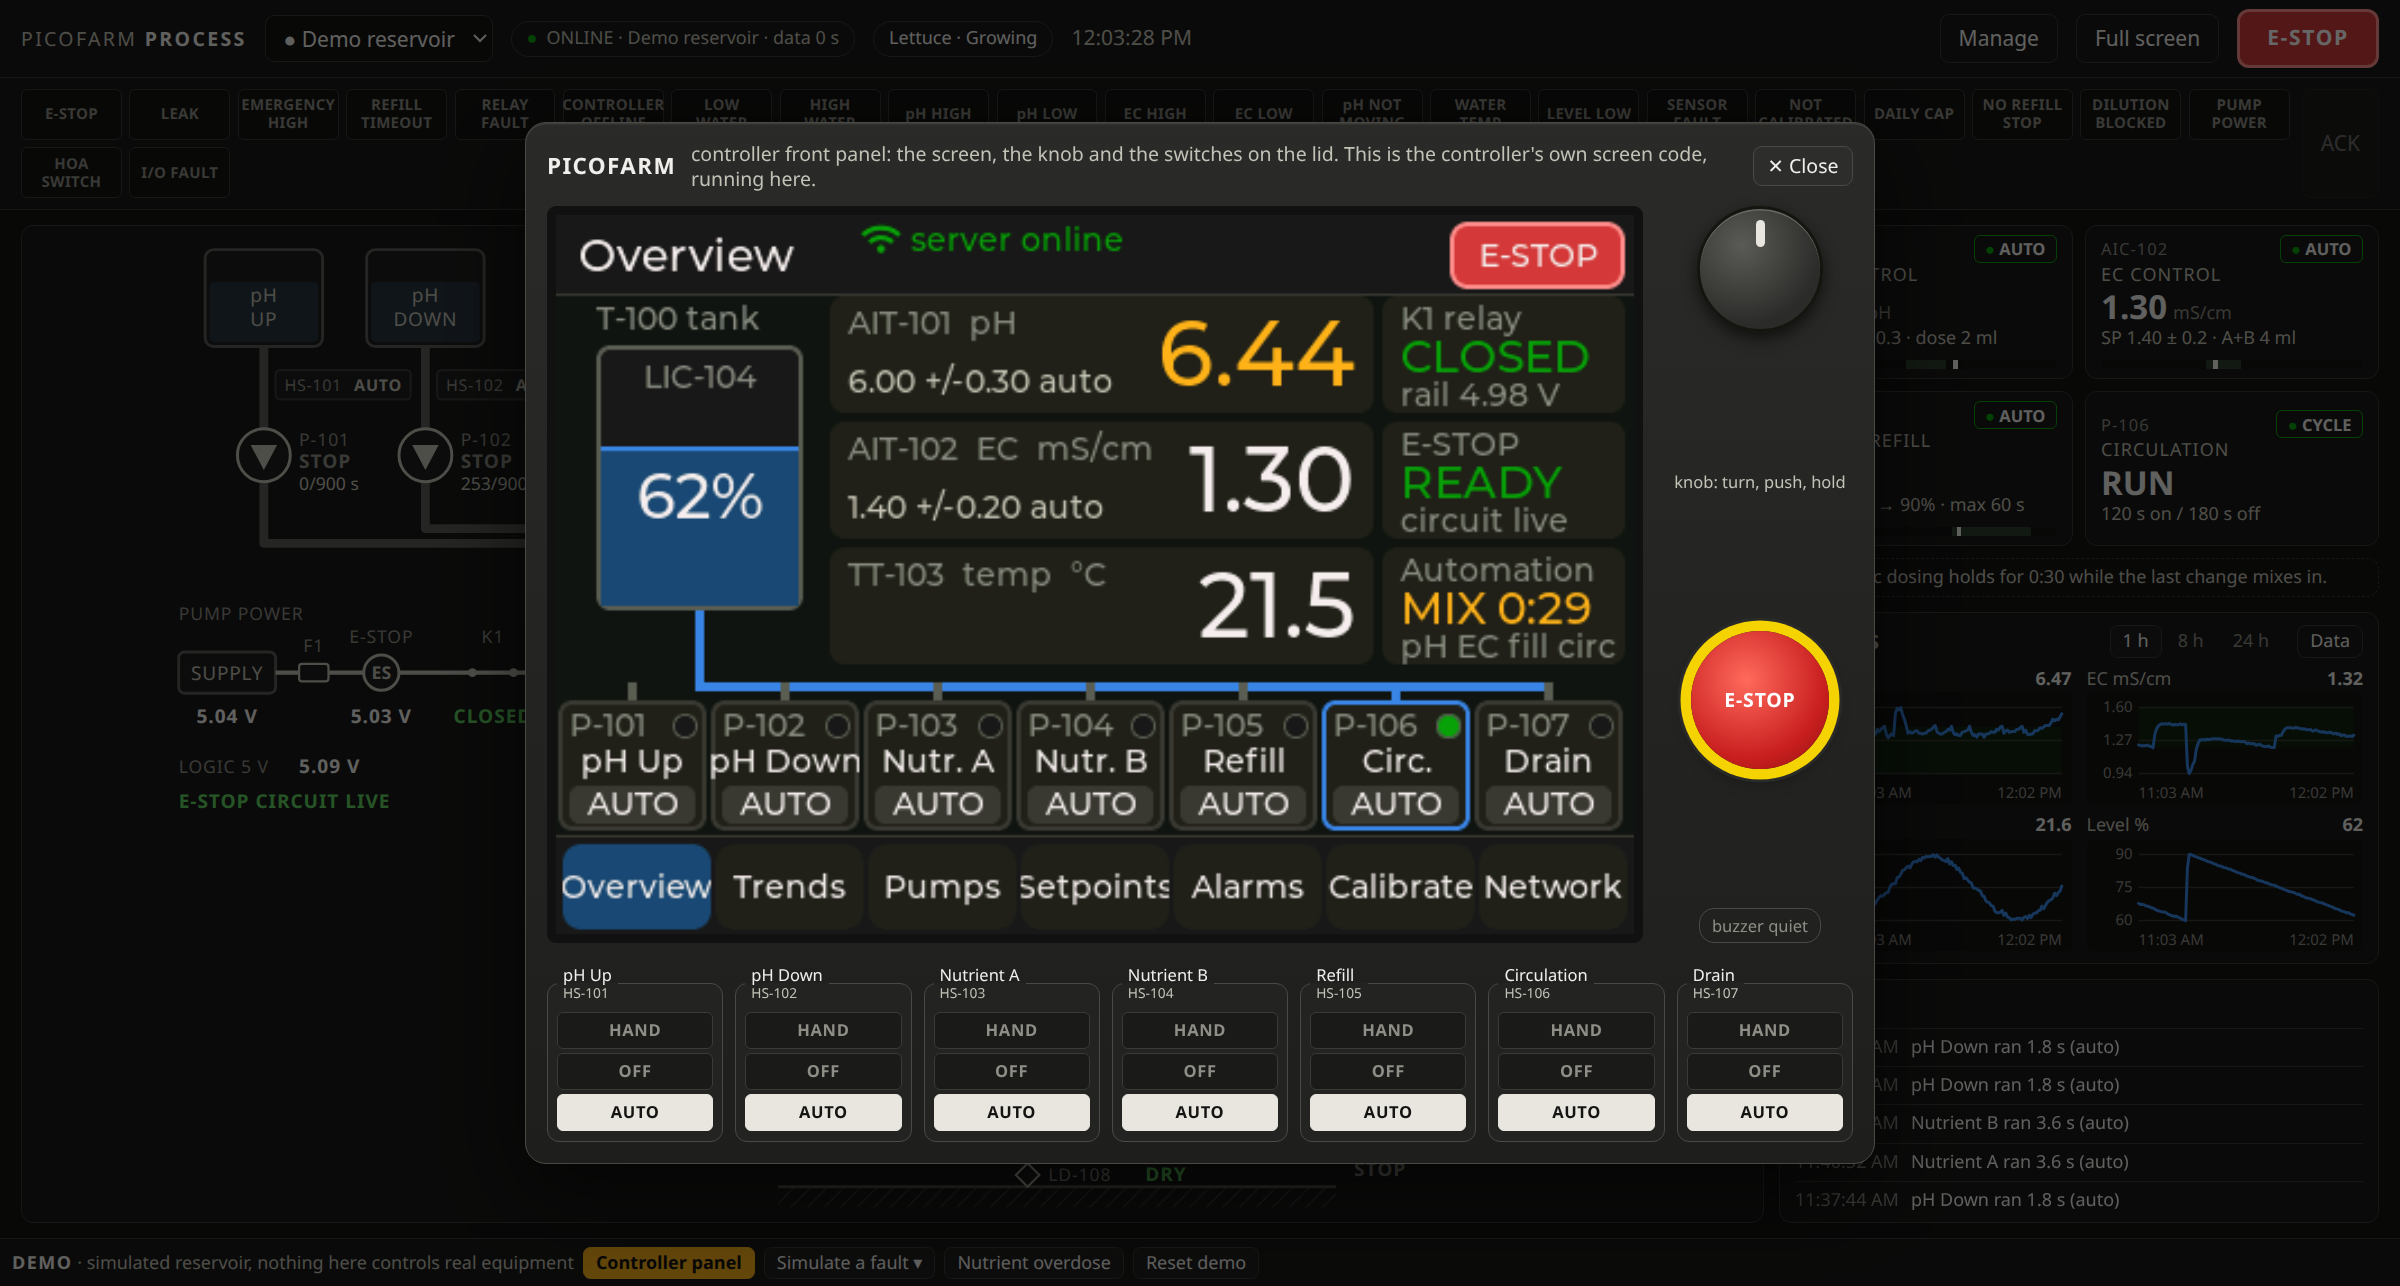
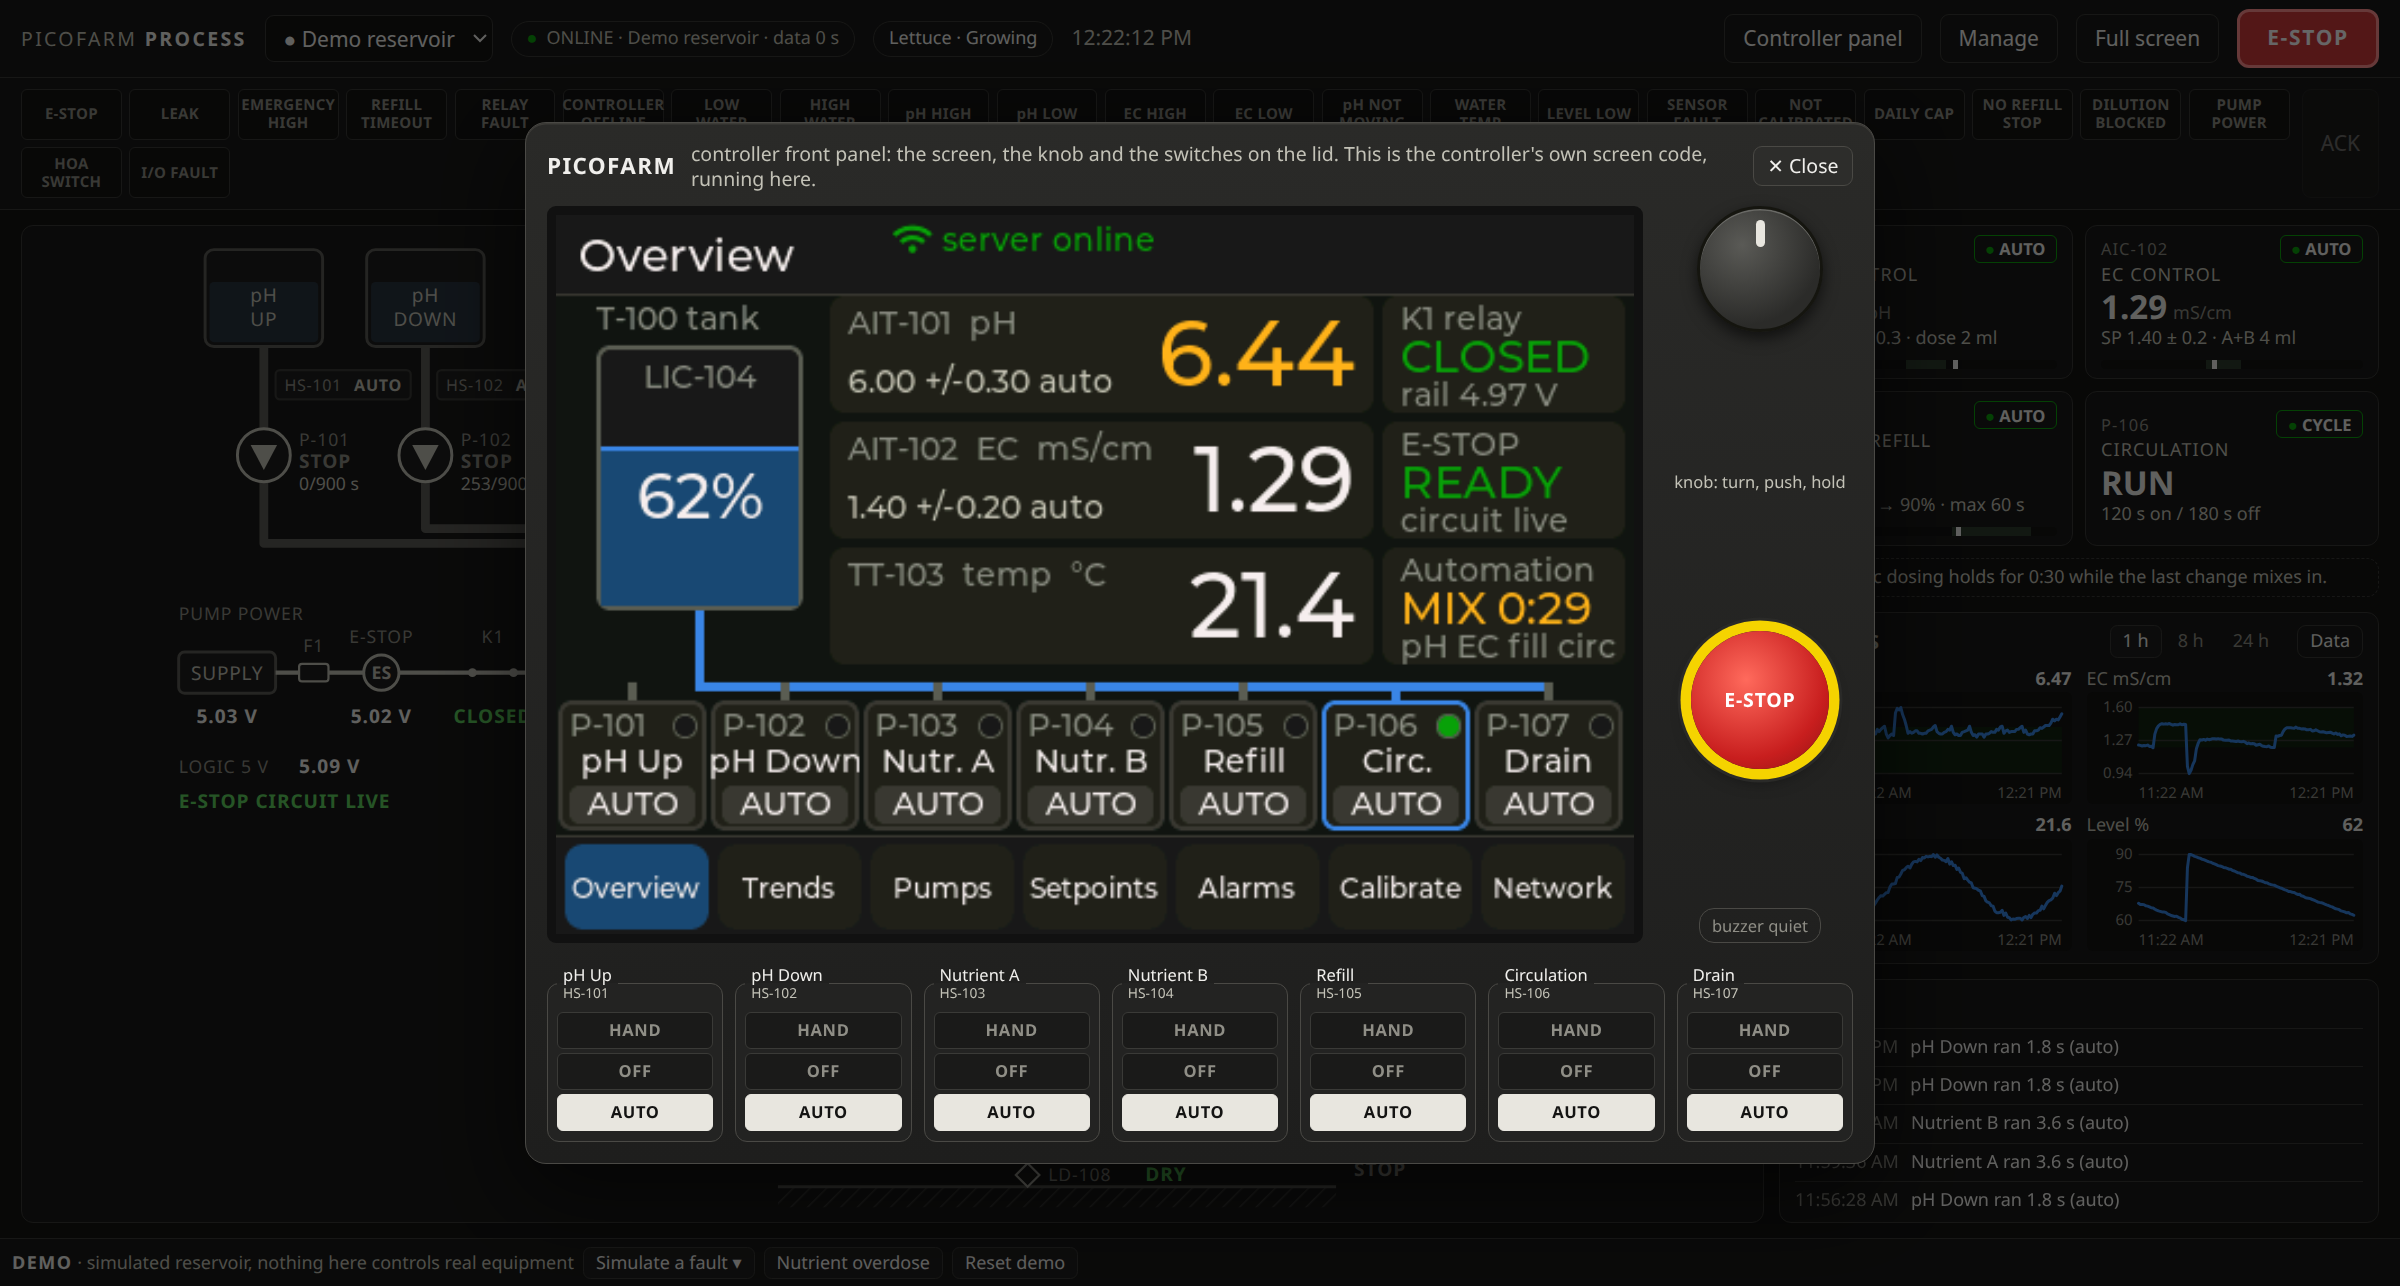
PicoFarm page: the panel has no software E-STOP; even nav bar in the screen pictures; demo button in the header
The screen's E-STOP lines and the safety-chain row now describe the lid's physical E-stop plus the
dashboard's and app's remote one; Stage 8 check 6 uses the dashboard's E-STOP. panel-screens.png and
demo-panel.png retaken from the new front-panel build.

diff --git a/src/content/projects/picofarm/index.md b/src/content/projects/picofarm/index.md
@@ -24,7 +24,7 @@ This page describes revision B of the controller. The firmware, the server with 
 
 **[Open the live demo](https://picofarm.jlwhite.ca).** The dashboard runs entirely in your browser against a simulated revision B controller: the reservoir drifts, the controller doses it back into range, and the circulation pump cycles. The menu at the bottom simulates faults (a leak, low water, a pH probe fault, a switch left in HAND, the E-stop pressed, a blown pump fuse, a welded relay) so you can watch the interlocks react, and the settings page has the crop profiles, the calibration and the firmware update. Nothing in the demo reaches real equipment.
 
-The **Controller panel** button at the bottom opens the controller's own front panel in the middle of the screen: the touch screen, the knob, the seven HAND/OFF/AUTO switches and the latching E-stop button. The screen is the firmware's real screen code, compiled to run in the browser, and it drives the same simulated controller as the dashboard: press E-STOP on either and both show it, put a switch to OFF and the dashboard's run is refused, change a setpoint with the knob and it appears in the settings.
+The **Controller panel** button in the header opens the controller's own front panel in the middle of the screen: the touch screen, the knob, the seven HAND/OFF/AUTO switches and the latching E-stop button. The screen is the firmware's real screen code, compiled to run in the browser, and it drives the same simulated controller as the dashboard: press the panel's E-stop or the dashboard's E-STOP and both show it, put a switch to OFF and the dashboard's run is refused, change a setpoint with the knob and it appears in the settings.
 
 ![The controller's front panel open over the demo dashboard: the Overview screen with the tank at 62 %, pH 6.44, EC 1.29 mS/cm and 21.4 °C, the K1 relay closed and the E-stop circuit ready, the seven pumps in AUTO; beside it the knob and the red E-stop button, and below it the seven HAND/OFF/AUTO switches](./demo-panel.png)
 
@@ -40,7 +40,7 @@ Settings are versioned. A controller applies a new configuration only if it is n
 
 ## The controller
 
-![Eight screens of the front panel, rendered from the firmware’s own screen code: the Overview with the tank level, pH, EC and temperature, the K1 relay and E-stop state and the seven pumps with their AUTO, OFF or HAND state; the Pumps page; the Setpoints page; the pH target dialog edited with the knob; the pH trend over 24 hours; the Calibration page with its pH 7, pH 4, pH 10 and EC 1413 buttons; the Alarms page with ACK, CLEAR and RESTART; and the Overview after a panel E-stop, with the relay open and automation held](./panel-screens.png)
+![Eight screens of the front panel, rendered from the firmware’s own screen code: the Overview with the tank level, pH, EC and temperature, the K1 relay and E-stop state and the seven pumps with their AUTO, OFF or HAND state; the Pumps page; the Setpoints page; the pH target dialog edited with the knob; the pH trend over 24 hours; the Calibration page with its pH 7, pH 4, pH 10 and EC 1413 buttons; the Alarms page with ACK, CLEAR and RESTART; and the Overview after the E-stop button was pressed, with the relay open and automation held](./panel-screens.png)
 
 *The front-panel screens, rendered on a PC from the firmware's own screen code before the hardware exists.*
 
@@ -48,7 +48,7 @@ The controller is a box with a front panel and two circuit boards, running on 5 
 
 **On the front panel:**
 
-- A **3.5" IPS touch screen** (480 × 320, ST7796 over SPI, FT6336 touch over I²C) with seven pages: Overview, Trends, Pumps, Setpoints, Alarms, Calibration and Network. The software E-STOP sits at the top right of every page. The screen dims after 2 minutes without input; a touch or the knob wakes it, and that first input does nothing else, except a touch on E-STOP, which stops everything at the first touch.
+- A **3.5" IPS touch screen** (480 × 320, ST7796 over SPI, FT6336 touch over I²C) with seven pages: Overview, Trends, Pumps, Setpoints, Alarms, Calibration and Network. The screen has no software E-STOP: the lid's own E-stop button cuts the pumps' power, and the dashboard and the app keep their remote one. The screen dims after 2 minutes without input; a touch or the knob wakes it, and that first input does nothing else.
 - A **rotary knob** (EC11): turn to move between buttons or to change a value in a dialog, push to press, hold to cancel or go back to the Overview. Every button also works by touch.
 - **Seven AUTO / OFF / HAND toggles**, one per pump, in the firmware's pump order: pH UP, pH DN, NUTR A, NUTR B, REFILL, CIRC, DRAIN.
 - A **22 mm latching E-stop** with a normally closed contact, wired into the pumps' power, and a **buzzer** for critical alarms.
@@ -80,7 +80,7 @@ The pumps' power runs through a chain of things that can each cut it on their ow
 | --- | --- | --- |
 | E-STOP pressed | the NC contact: the rail dies at once, whatever the firmware is doing; K1's coil, fed from the same node, also drops | sees the node go low, latches `estop` (source `hardware`) |
 | E-STOP released | nothing restarts: K1 stays off until the firmware closes it | holds `estop` until RESTART from the panel, app or dashboard |
-| software E-STOP (panel, app, dashboard) | the firmware drops K1 (a hardware cut) and every pump output | latches `estop` (source `panel`, `app` or `server`) |
+| software E-STOP (app, dashboard) | the firmware drops K1 (a hardware cut) and every pump output | latches `estop` (source `app` or `server`) |
 | leak | the firmware drops K1 and every output | latches `leak` |
 | firmware hang or crash | the 5 s watchdog resets the chip; the outputs and K1 drop, because the driver inputs and the relay transistor's base are pulled down | restarts with K1 off and automation held |
 | power-up | K1 is off: its coil can't energize until the firmware drives its pin | turns K1 on only after the sensors start, with no latched `estop` or `leak` |

diff --git a/src/pages/work/picofarm/build.md b/src/pages/work/picofarm/build.md
@@ -511,7 +511,7 @@ These prove the safety features before any water is near the box. Connect one pu
 | 3 | Relay at boot | Unplug and replug both chargers. | relay off at power-up, then on after the first reading | stop: don't connect pumps until this is right |
 | 4 | Hardware E-stop | Press it while a pump runs. | pump stops at once, `estop` latched, source hardware | |
 | 5 | Restart needed | Release the E-stop. | nothing runs until RESTART (Alarms page, confirm) | |
-| 6 | Software E-stop | Touch E-STOP on the screen while a pump runs. | pump stops, relay drops a moment later | |
+| 6 | Remote E-stop | Press E-STOP on the dashboard while a pump runs. | pump stops, relay drops a moment later, `estop` latched, source server | |
 | 7 | OFF cuts power | Toggle at OFF, then ask for a run from the Pumps page. | refused, reason `switch_off`; the pump never moves | the toggle's pole 1 is mis-wired |
 | 8 | HAND | Toggle to HAND. | pump runs, stops after its `max_s`, alarm `hand_timeout` until the toggle leaves HAND | |
 | 9 | Pump budget | Three dosing toggles to HAND together. | two run, the third waits ("waiting: two pumps already running") and starts when one stops | |
